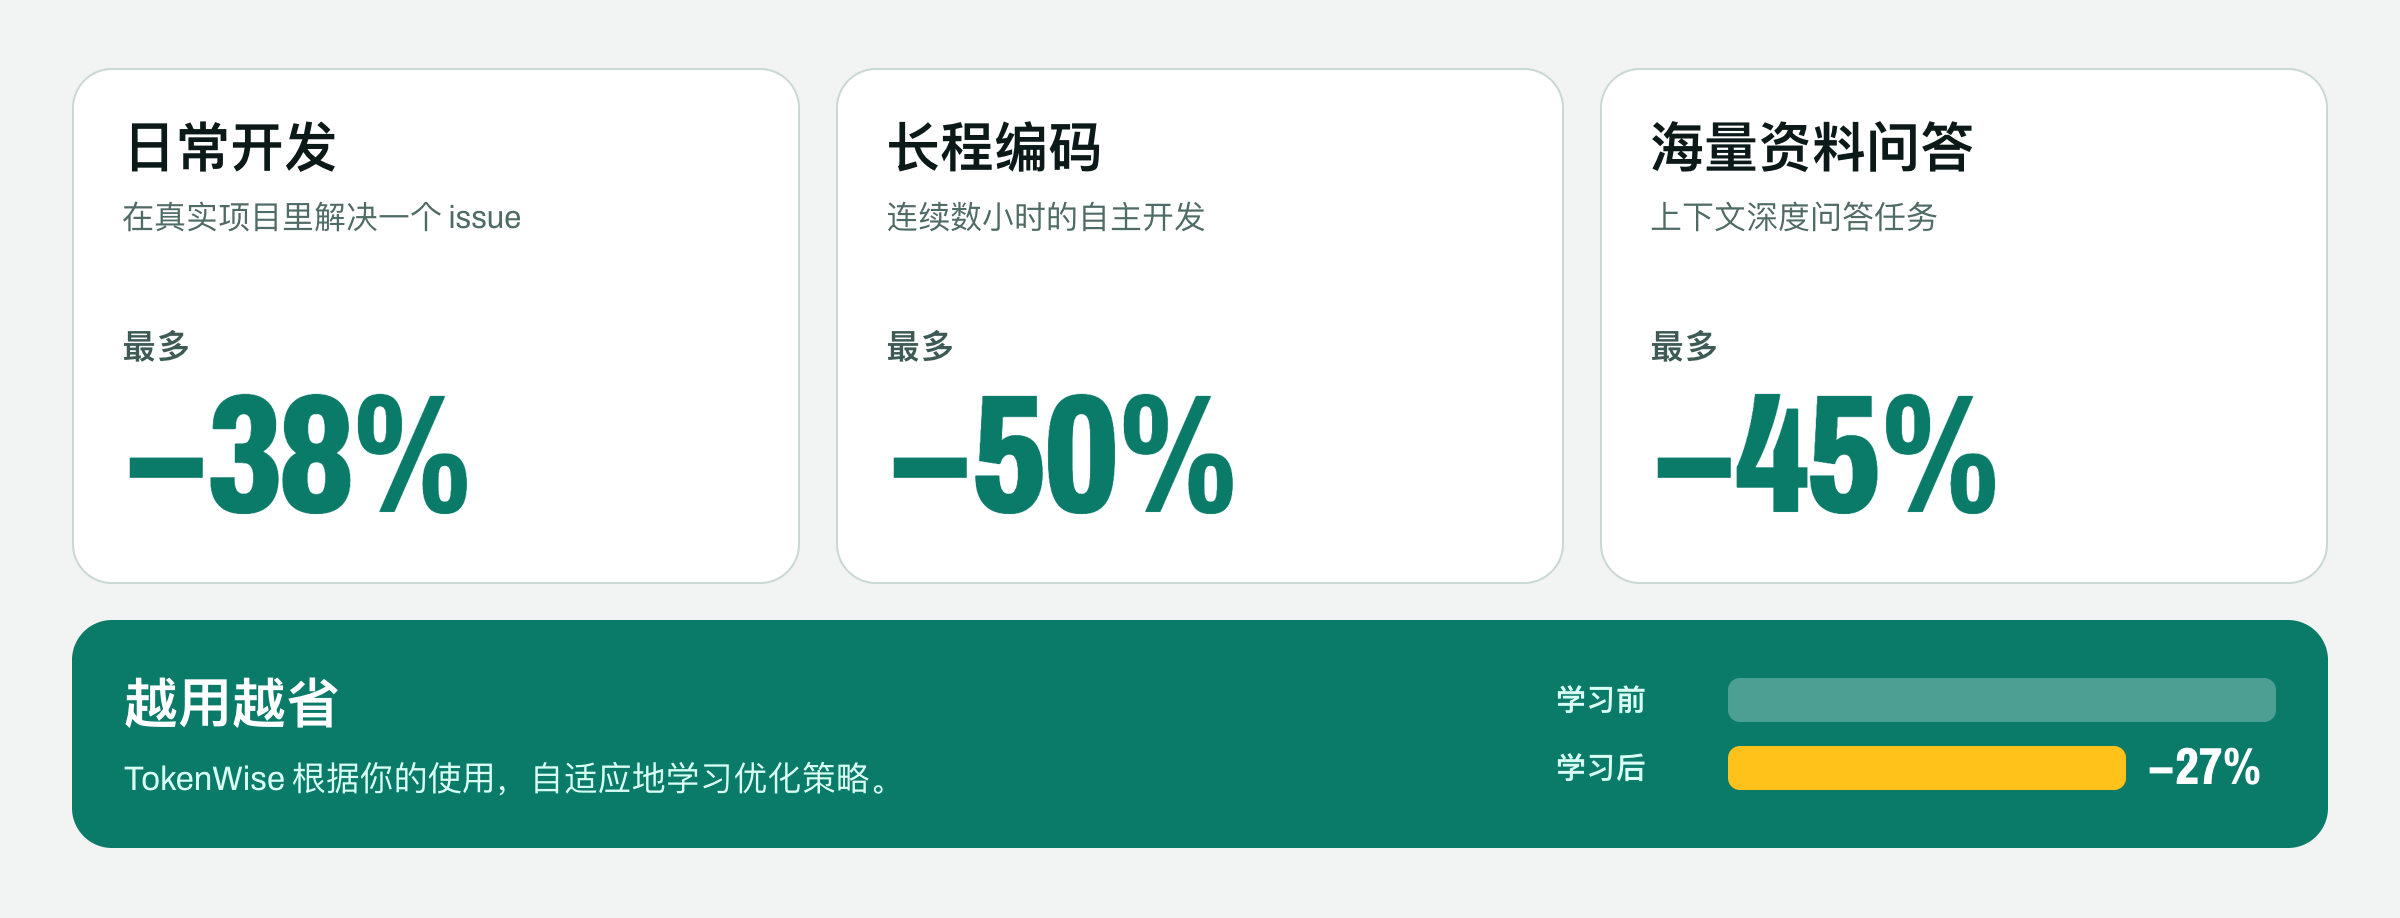
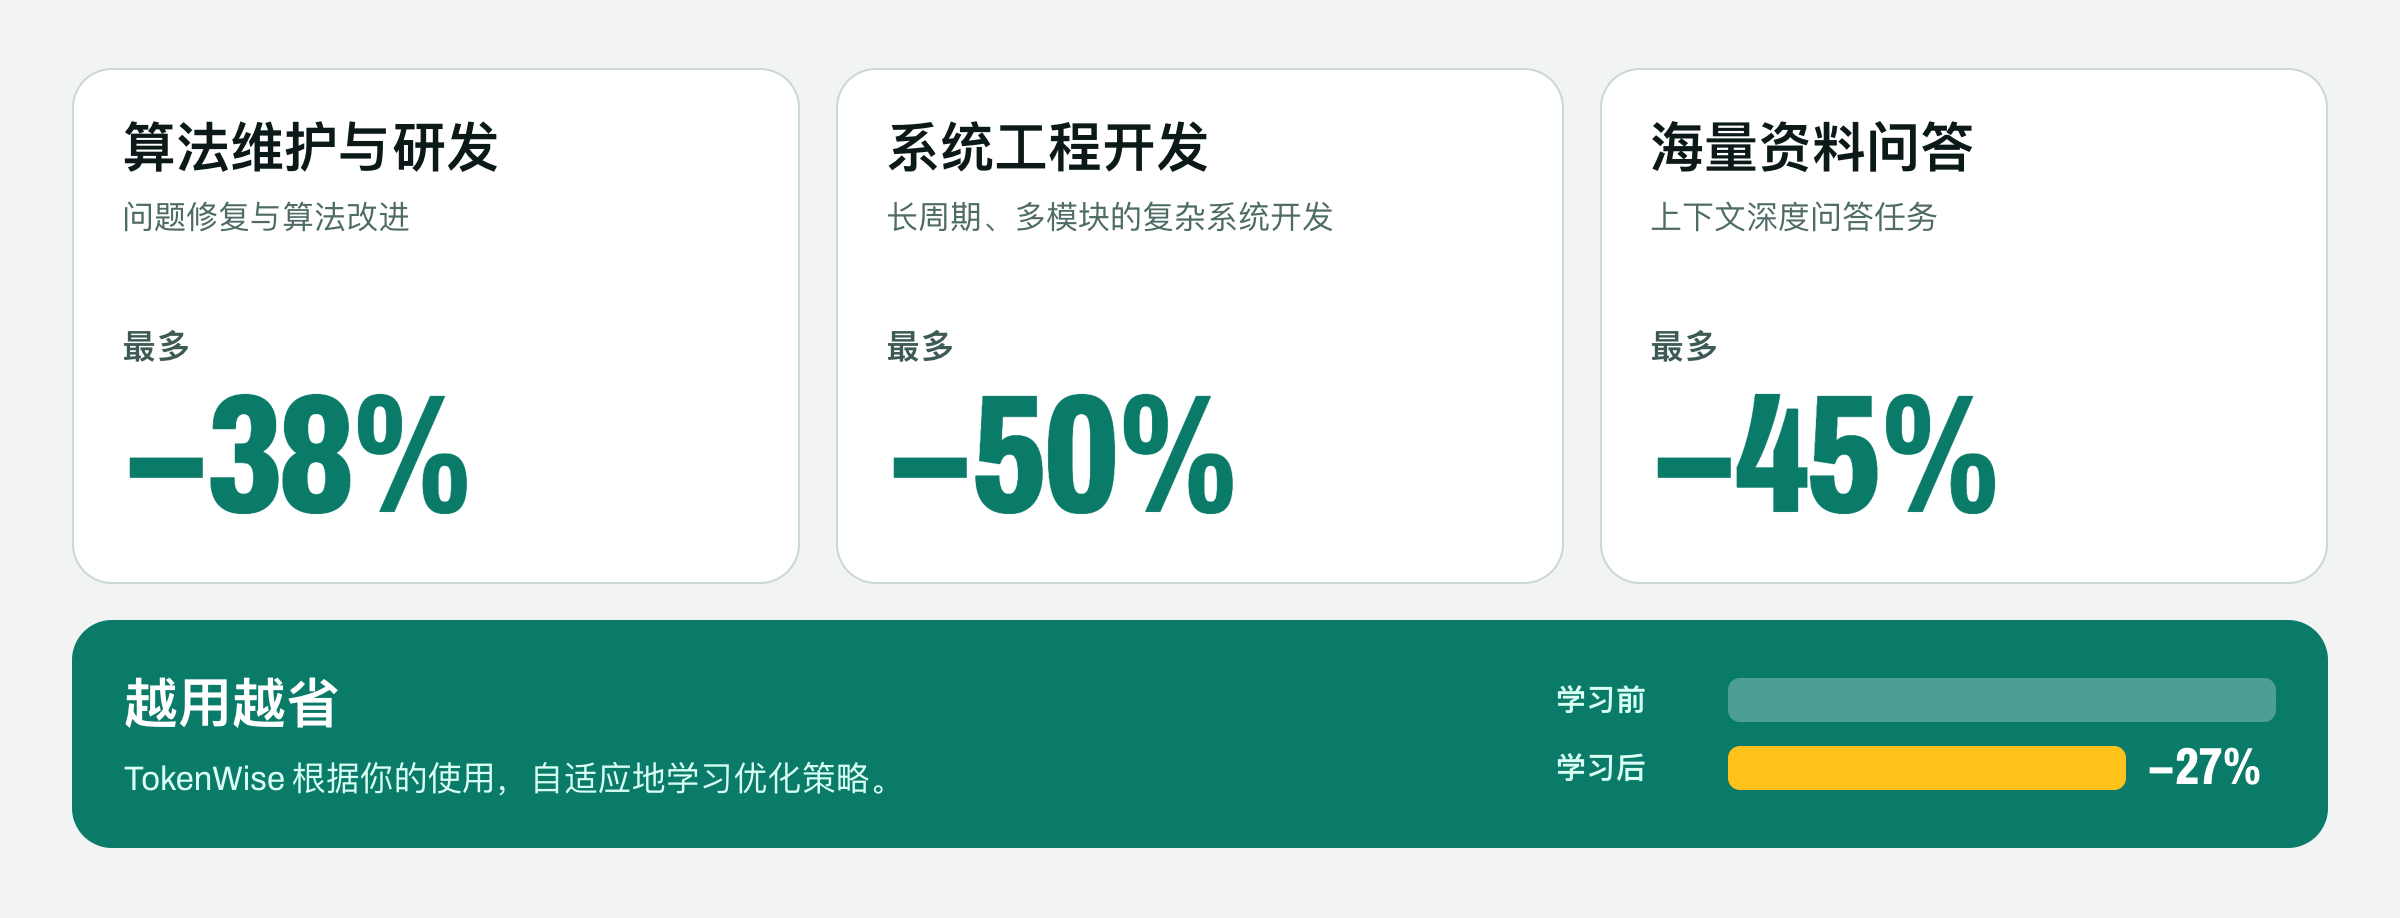
Savings chart: algorithm work, systems engineering, large-context Q&A
The three tiles are now algorithm development and maintenance (bug fixing
and algorithm improvement, up to 38% fewer tokens), systems engineering
(long-running, multi-module system development, up to 50%) and
large-context Q&A (in-depth Q&A over a large context, up to 45%). The
title line is gone; the band says TokenWise adaptively learns its
optimization strategy, with the before/after bars (up to 27%).

diff --git a/media/src/savings.html b/media/src/savings.html
@@ -43,16 +43,16 @@ const SAVED = {
 }
 const T = zh ? {
   upto: '最多',
-  cards: [['everyday', '日常开发', '在真实项目里解决一个 issue'],
-    ['longHorizon', '长程编码', '连续数小时的自主开发'],
+  cards: [['everyday', '算法维护与研发', '问题修复与算法改进'],
+    ['longHorizon', '系统工程开发', '长周期、多模块的复杂系统开发'],
     ['qa', '海量资料问答', '上下文深度问答任务']],
   learn: '越用越省',
   learnText: 'TokenWise 根据你的使用，自适应地学习优化策略。',
   before: '学习前', after: '学习后',
 } : {
   upto: 'up to',
-  cards: [['everyday', 'Everyday Coding', 'Resolve an issue in a real project'],
-    ['longHorizon', 'Long-Horizon Coding', 'Hours of autonomous development'],
+  cards: [['everyday', 'Algorithm Development & Maintenance', 'Bug fixing and algorithm improvement'],
+    ['longHorizon', 'Systems Engineering', 'Long-running, multi-module system development'],
     ['qa', 'Large-Context Q&A', 'In-depth Q&A over a large context']],
   learn: 'Saves more over time',
   learnText: 'TokenWise adaptively learns its optimization strategy from how you work.',

diff --git a/README.md b/README.md
@@ -40,7 +40,7 @@ Today's agents face:
 
 ## 📊 Results
 
-<p align="center"><img src="media/images/savings.png" alt="Everyday coding (resolving an issue in a real project): up to 38% fewer tokens. Long-horizon coding (hours of autonomous development): up to 50%. Large-context Q&A (in-depth Q&A over a large context): up to 45%. Saves more over time: TokenWise adaptively learns its optimization strategy; after learning, up to 27% fewer tokens than before." width="100%"></p>
+<p align="center"><img src="media/images/savings.png" alt="Algorithm development and maintenance (bug fixing and algorithm improvement): up to 38% fewer tokens. Systems engineering (long-running, multi-module system development): up to 50%. Large-context Q&amp;A (in-depth Q&amp;A over a large context): up to 45%. Saves more over time: TokenWise adaptively learns its optimization strategy; after learning, up to 27% fewer tokens than before." width="100%"></p>
 
 <sub>From our paper's evaluation; the paper is coming soon.</sub>
 

diff --git a/docs/zh/README.md b/docs/zh/README.md
@@ -37,7 +37,7 @@
 
 ## 📊 效果
 
-<p align="center"><img src="../../media/images/savings-zh.png" alt="日常开发（在真实项目里解决一个 issue）最多省 38% token；长程编码（连续数小时的自主开发）最多省 50%；海量资料问答（上下文深度问答任务）最多省 45%。越用越省：TokenWise 自适应地学习优化策略，学习后比学习前最多再省 27%。" width="100%"></p>
+<p align="center"><img src="../../media/images/savings-zh.png" alt="算法维护与研发（问题修复与算法改进）最多省 38% token；系统工程开发（长周期、多模块的复杂系统开发）最多省 50%；海量资料问答（上下文深度问答任务）最多省 45%。越用越省：TokenWise 自适应地学习优化策略，学习后比学习前最多再省 27%。" width="100%"></p>
 
 <sub>数据来自我们论文的评测，论文即将公开。</sub>
 
